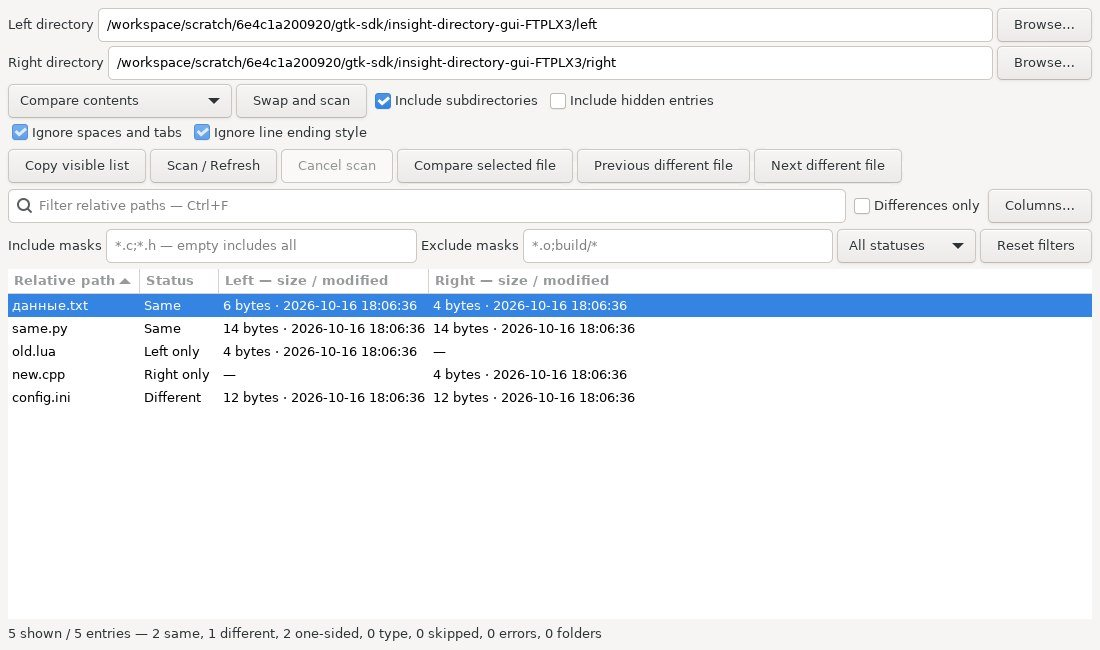
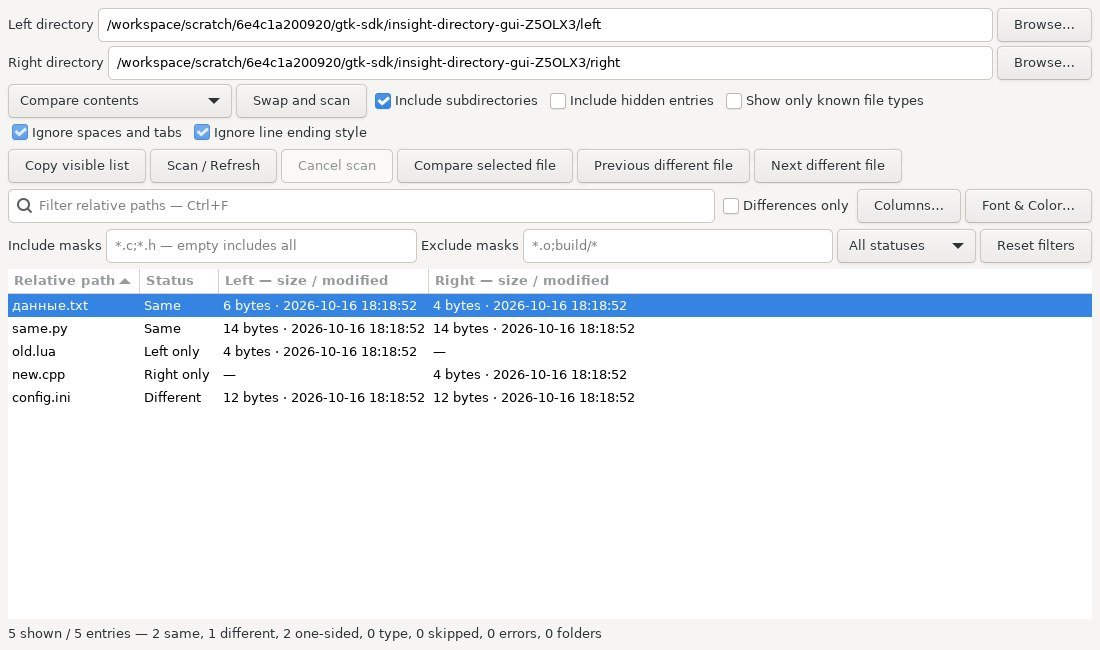
Document remembered comparison options with real appearance captures

diff --git a/src/insight-directory.c b/src/insight-directory.c
@@ -332,7 +332,7 @@ static Directory *directory_new(GtkWidget *parent) {
  d->controls=gtk_box_new(GTK_ORIENTATION_VERTICAL,4);gtk_box_pack_start(GTK_BOX(box),d->controls,FALSE,FALSE,0);
  for(gint side=0;side<2;side++) {
   GtkWidget *row=gtk_box_new(GTK_ORIENTATION_HORIZONTAL,4);gtk_box_pack_start(GTK_BOX(d->controls),row,FALSE,FALSE,0);gtk_box_pack_start(GTK_BOX(row),gtk_label_new(side ? "Right directory" : "Left directory"),FALSE,FALSE,0);
-  d->paths[side]=gtk_entry_new();gtk_widget_set_name(d->paths[side],side ? "insight-directory-right" : "insight-directory-left");gtk_box_pack_start(GTK_BOX(row),d->paths[side],TRUE,TRUE,0);GtkWidget *browse=button(row,"Browse…",G_CALLBACK(choose),d);g_object_set_data(G_OBJECT(browse),"side",GINT_TO_POINTER(side));g_signal_connect(d->paths[side],"activate",G_CALLBACK(start),d);
+  d->paths[side]=gtk_entry_new();gtk_entry_set_max_length(GTK_ENTRY(d->paths[side]),16384);gtk_widget_set_name(d->paths[side],side ? "insight-directory-right" : "insight-directory-left");gtk_box_pack_start(GTK_BOX(row),d->paths[side],TRUE,TRUE,0);GtkWidget *browse=button(row,"Browse…",G_CALLBACK(choose),d);g_object_set_data(G_OBJECT(browse),"side",GINT_TO_POINTER(side));g_signal_connect(d->paths[side],"activate",G_CALLBACK(start),d);
  }
  GtkWidget *options=gtk_box_new(GTK_ORIENTATION_HORIZONTAL,4);gtk_box_pack_start(GTK_BOX(d->controls),options,FALSE,FALSE,0);
  d->method=gtk_combo_box_text_new();gtk_combo_box_text_append_text(GTK_COMBO_BOX_TEXT(d->method),"Compare contents");gtk_combo_box_text_append_text(GTK_COMBO_BOX_TEXT(d->method),"Compare modification dates");gtk_combo_box_text_append_text(GTK_COMBO_BOX_TEXT(d->method),"Compare sizes and dates");gtk_combo_box_set_active(GTK_COMBO_BOX(d->method),0);gtk_box_pack_start(GTK_BOX(options),d->method,FALSE,FALSE,0);
@@ -343,7 +343,7 @@ static Directory *directory_new(GtkWidget *parent) {
  GtkWidget *bar=gtk_box_new(GTK_ORIENTATION_HORIZONTAL,4);gtk_box_pack_start(GTK_BOX(box),bar,FALSE,FALSE,0);
  button(bar,"Copy visible list",G_CALLBACK(copy_list),d);
  d->scan=button(bar,"Scan / Refresh",G_CALLBACK(start),d);gtk_widget_set_name(d->scan,"insight-directory-scan");d->cancel_button=button(bar,"Cancel scan",G_CALLBACK(cancel_scan),d);d->open=button(bar,"Compare selected file",G_CALLBACK(open_pair),d);gtk_widget_set_name(d->open,"insight-directory-open");d->previous=button(bar,"Previous different file",G_CALLBACK(step),d);d->next=button(bar,"Next different file",G_CALLBACK(step),d);
- GtkWidget *filters=gtk_box_new(GTK_ORIENTATION_HORIZONTAL,4);gtk_box_pack_start(GTK_BOX(box),filters,FALSE,FALSE,0);d->filter_entry=gtk_search_entry_new();gtk_entry_set_placeholder_text(GTK_ENTRY(d->filter_entry),"Filter relative paths — Ctrl+F");gtk_box_pack_start(GTK_BOX(filters),d->filter_entry,TRUE,TRUE,0);d->different=check(filters,"Differences only",FALSE);button(filters,"Columns…",G_CALLBACK(show_columns),d);
+ GtkWidget *filters=gtk_box_new(GTK_ORIENTATION_HORIZONTAL,4);gtk_box_pack_start(GTK_BOX(box),filters,FALSE,FALSE,0);d->filter_entry=gtk_search_entry_new();gtk_entry_set_max_length(GTK_ENTRY(d->filter_entry),2048);gtk_entry_set_placeholder_text(GTK_ENTRY(d->filter_entry),"Filter relative paths — Ctrl+F");gtk_box_pack_start(GTK_BOX(filters),d->filter_entry,TRUE,TRUE,0);d->different=check(filters,"Differences only",FALSE);button(filters,"Columns…",G_CALLBACK(show_columns),d);
  GtkWidget *masks=gtk_box_new(GTK_ORIENTATION_HORIZONTAL,4);gtk_box_pack_start(GTK_BOX(box),masks,FALSE,FALSE,0);
  gtk_box_pack_start(GTK_BOX(masks),gtk_label_new("Include masks"),FALSE,FALSE,0);d->include=gtk_entry_new();gtk_entry_set_placeholder_text(GTK_ENTRY(d->include),"*.c;*.h — empty includes all");gtk_entry_set_max_length(GTK_ENTRY(d->include),2048);gtk_box_pack_start(GTK_BOX(masks),d->include,TRUE,TRUE,0);
  gtk_box_pack_start(GTK_BOX(masks),gtk_label_new("Exclude masks"),FALSE,FALSE,0);d->exclude=gtk_entry_new();gtk_entry_set_placeholder_text(GTK_ENTRY(d->exclude),"*.o;build/*");gtk_entry_set_max_length(GTK_ENTRY(d->exclude),2048);gtk_box_pack_start(GTK_BOX(masks),d->exclude,TRUE,TRUE,0);

diff --git a/insight/tests/directory_compare_gui_test.c b/insight/tests/directory_compare_gui_test.c
@@ -35,6 +35,8 @@ static gboolean appearance_response(gpointer data) {
  for(GList *p=windows;p && !dialog;p=p->next) if(!strcmp(gtk_widget_get_name(p->data),"insight-list-style-dialog")) dialog=p->data;
  g_list_free(windows);g_assert_nonnull(dialog);
  gtk_toggle_button_set_active(GTK_TOGGLE_BUTTON(named(dialog,"insight-list-style-enabled")),TRUE);gtk_font_chooser_set_font(GTK_FONT_CHOOSER(named(dialog,"insight-list-style-font")),"Monospace 12");
+ const gchar *capture=g_getenv("INSIGHT_DIRECTORY_APPEARANCE_CAPTURE");
+ if(capture && GPOINTER_TO_INT(data)==GTK_RESPONSE_APPLY) { gint64 until=g_get_monotonic_time()+200000;while(g_get_monotonic_time()<until) { flush();g_usleep(1000); }GdkWindow *window=gtk_widget_get_window(dialog);GdkPixbuf *pixels=gdk_pixbuf_get_from_window(window,0,0,gdk_window_get_width(window),gdk_window_get_height(window));g_assert_nonnull(pixels);g_assert_true(gdk_pixbuf_save(pixels,capture,"jpeg",NULL,"quality","88",NULL));g_object_unref(pixels); }
  gtk_dialog_response(GTK_DIALOG(dialog),GPOINTER_TO_INT(data));return G_SOURCE_REMOVE;
 }
 int main(int argc,char **argv) {
@@ -106,5 +108,5 @@ int main(int argc,char **argv) {
  g_key_file_unref(settings);g_key_file_unref(again);g_clear_pointer(&saved_options,g_key_file_unref);g_assert_null(open_windows);
  const gchar *names[]={"config.ini","same.py","old.lua","new.cpp","данные.txt",NULL};for(guint i=0;names[i];i++) for(guint side=0;side<2;side++) { gchar *path=g_build_filename(side ? right : left,names[i],NULL);if(g_file_test(path,G_FILE_TEST_EXISTS)) g_remove(path);g_free(path); }
  g_rmdir(left);g_rmdir(right);g_rmdir(empty);g_rmdir(root);g_free(left);g_free(right);g_free(empty);g_free(root);g_free(opened[0]);g_free(opened[1]);
- g_print("Directory production GUI: scan, filter, sort, pair routing, clipboard, cancellation, empty results and close passed.\n");return 0;
+ g_print("Directory production GUI: scan, filter, sort, pair routing, clipboard, cancellation, known types, appearance Apply/Cancel, option persistence, malformed settings and close passed.\n");return 0;
 }

diff --git a/src/insight-workbench.c b/src/insight-workbench.c
@@ -4230,7 +4230,8 @@ static void save_workbench_settings(void) {
 static void restore_workbench_settings(void) {
  gchar *prefs_utf8=utils_get_utf8_from_locale(wb.prefs_path); char *text=read_disk_source(prefs_utf8,FALSE); g_free(prefs_utf8); if(!text) return;
  GKeyFile *settings=g_key_file_new();
- if(strlen(text)<=65536 && g_key_file_load_from_data(settings,text,-1,G_KEY_FILE_NONE,NULL) && g_key_file_get_integer(settings,"workbench","version",NULL)==1) {
+ /* Directory defaults can include two long UTF-8 paths and masks. */
+ if(strlen(text)<=262144 && g_key_file_load_from_data(settings,text,-1,G_KEY_FILE_NONE,NULL) && g_key_file_get_integer(settings,"workbench","version",NULL)==1) {
   insight_overview_read(settings);
  grouped_read(&wb.type_panel,settings); grouped_read(&wb.category_panel,settings);
  gtk_toggle_button_set_active(GTK_TOGGLE_BUTTON(wb.tree_follow),g_key_file_get_boolean(settings,"workbench","folder-follow-current-file",NULL));

diff --git a/insight/docs/source-insight-parity.md b/insight/docs/source-insight-parity.md
@@ -402,3 +402,9 @@ pairs open independent File Compare windows using completed snapshot roots and
 flags. Snapshot publication is incremental. File copying/deletion, known-type
 filters, backups, path variables and persistent options remain open. See the
 illustrated RU/EN directory-compare guide for limits and verification scope.
+
+### Directory window options and appearance (2026-10-16)
+
+Directory Compare now snapshots native file-type filename patterns and language-profile extensions before worker content reads. Unknown files are omitted while directory rows, enumeration limits and cancellation remain intact. The shared Font & Color dialog supplies per-window custom fonts and foreground/background colors with Apply/Cancel. Window options, paths, filters, column visibility, sorting, size and appearance survive closing and editor restart through the workbench settings; restoring never scans automatically. Individual-file profile bindings are outside this name-based filter.
+
+Linux checks exercise known/empty/invalid definitions, recursive filtering, real appearance Apply/Cancel, persistence, multiple windows and malformed defaults. Native editor coverage verifies the real file-type provider, reopening without a scan and settings written at exit. Updated isolated production-widget JPEG captures and the snapshot SVG accompany the RU/EN guides.

diff --git a/insight/docs/en/directory-compare.md b/insight/docs/en/directory-compare.md
@@ -124,3 +124,7 @@ Use **Include masks** (`*.c;*.h`) and **Exclude masks** (`*.o;build/*`) to narro
 ### Remembered window options
 
 Closing a comparison remembers its input paths, comparison method, recursion/hidden/text/known-type options, search, masks, status, Differences only, visible columns, sort direction, window size and list appearance for newly opened windows. At editor exit the most recently opened comparison still alive supplies these defaults to `insight/workbench.conf`; otherwise the last closed window does. Existing windows keep independent controls. Restoring options never starts a scan and never restores result rows. Press Scan / Refresh to get a fresh snapshot. Invalid or unsupported saved values retain the normal defaults; the relative-path column always remains visible. Reset filters clears display filters only, leaving comparison options and appearance intact.
+
+The appearance dialog below is captured from the production GTK widgets in the isolated Linux fixture (editor host stubs).
+
+![Directory list appearance](../media/directory-appearance.jpg)

diff --git a/insight/docs/directory-compare.md b/insight/docs/directory-compare.md
@@ -124,3 +124,7 @@ Use **Include masks** (`*.c;*.h`) and **Exclude masks** (`*.o;build/*`) to narro
 ### Remembered window options
 
 Closing a comparison remembers its input paths, comparison method, recursion/hidden/text/known-type options, search, masks, status, Differences only, visible columns, sort direction, window size and list appearance for newly opened windows. At editor exit the most recently opened comparison still alive supplies these defaults to `insight/workbench.conf`; otherwise the last closed window does. Existing windows keep independent controls. Restoring options never starts a scan and never restores result rows. Press Scan / Refresh to get a fresh snapshot. Invalid or unsupported saved values retain the normal defaults; the relative-path column always remains visible. Reset filters clears display filters only, leaving comparison options and appearance intact.
+
+The appearance dialog below is captured from the production GTK widgets in the isolated Linux fixture (editor host stubs).
+
+![Directory list appearance](media/directory-appearance.jpg)
